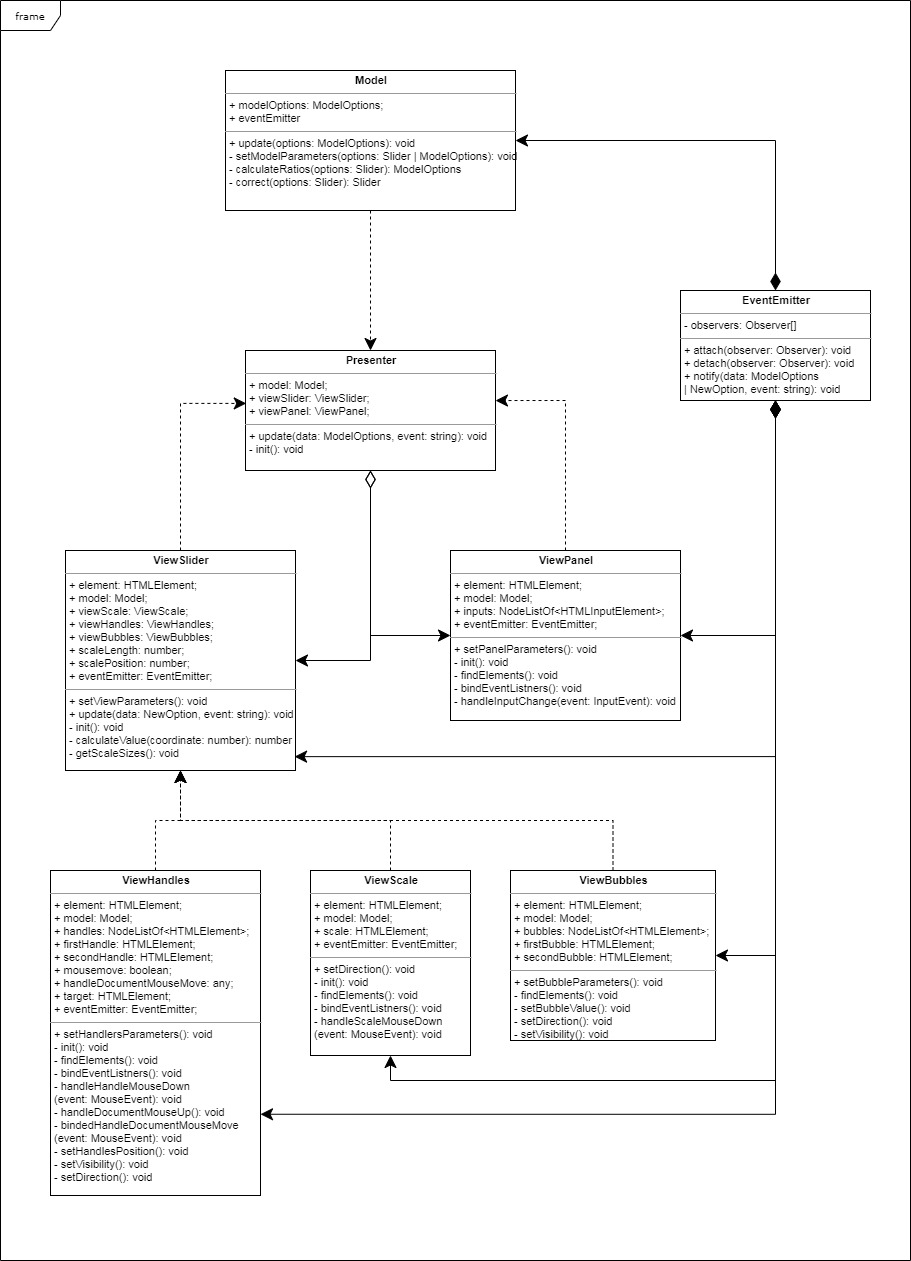
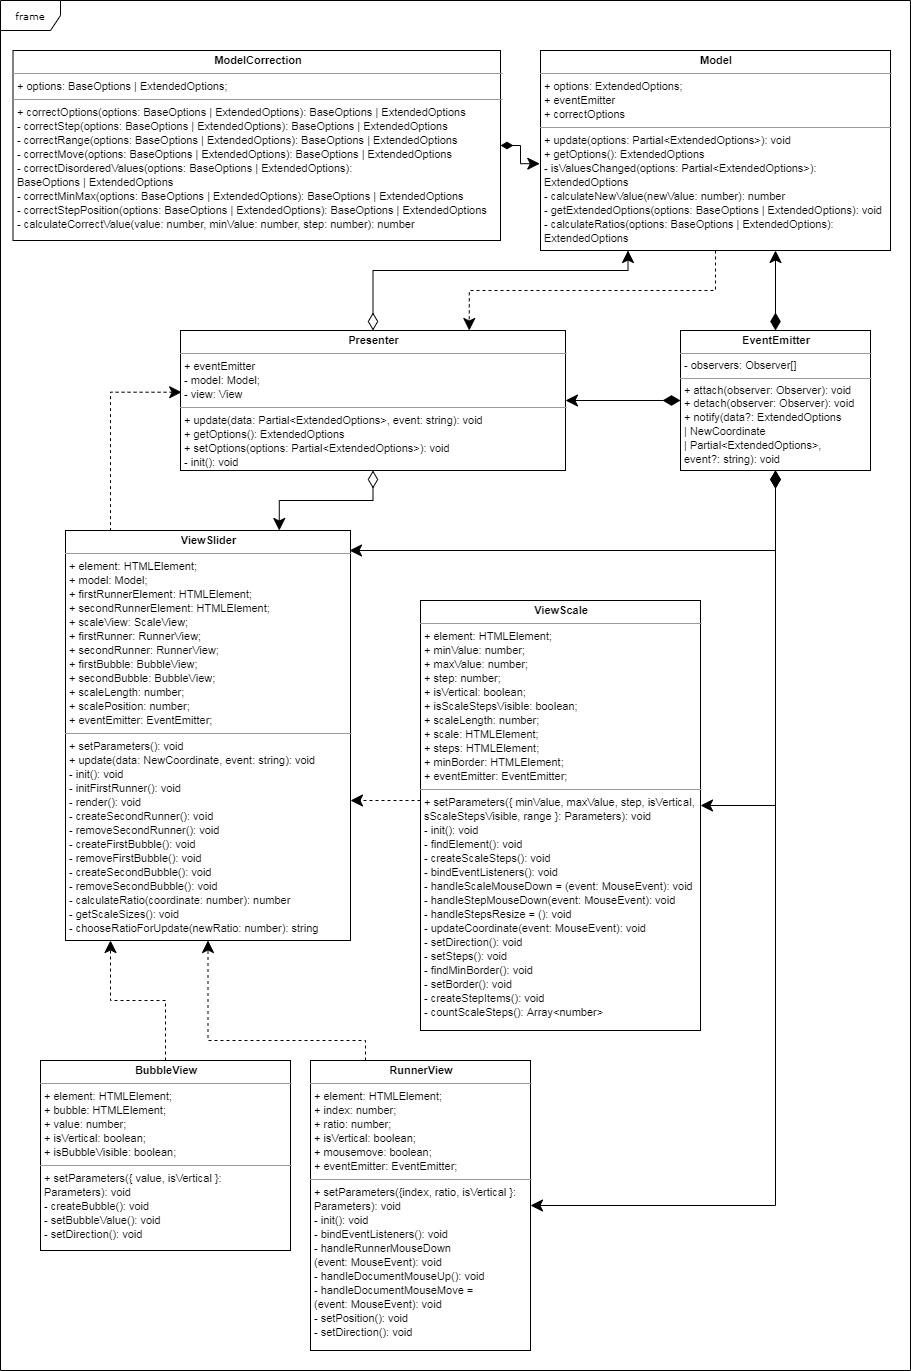
Исправлена UML диаграмма и описание проекта #22

diff --git a/README.md b/README.md
@@ -14,10 +14,9 @@ $ npm run build</pre>
 <pre>$ npm test</pre>
 
 <h2>Архитектура</h2>
-Model содержит данные слайдера, при получении данных происходит исправление ошибок, а также подготовка вспомогательных параметров. 
-ViewSlider содержит элементы слайдера ViewScale, ViewHandles и ViewBubbles, предоставляет им информацию для отображения и преобразует данные событий на элементах.
-ViewPanel отображает настройки слайдера и отслеживает события их изменения.
-Для взаимодействия модулей используется паттерн наблюдатель. Presenter подписывается на события ViewSlider, ViewPanel и Model и при получении уведомления перенаправляет вызов на обновление соответствующему элементу. Также наблюдатель используется для передачи данных от элементов ViewScale и ViewHandles, при этом на события подписывается ViewSlider.
+Model содержит данные и логику работы слайдера. Model создает вспомогательный модуль ModelCorrection, который занимается проверкой и исправлением данных слайдера.
+View содержит элементы слайдера ScaleView, RunnerView и BubbleView, предоставляет им информацию для отображения и преобразует данные событий на элементах.
+Для взаимодействия модулей используется паттерн наблюдатель. Presenter подписывается на события View и Model и при получении уведомления перенаправляет вызов на обновление соответствующему элементу. Также наблюдатель используется для передачи данных от элементов ScaleView и RunnerView, при этом на события подписывается View.
 
 <h2>UML-диаграмма</h2>
 <img src="https://github.com/RomKmeister/Slider/blob/master/UML.jpg" alt="uml">
